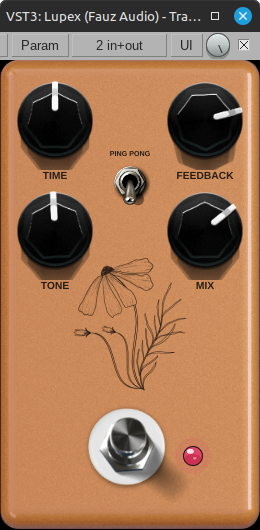
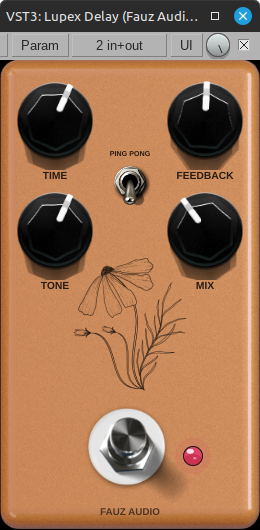
feat: unit tests, BBDFilter fix, DC blocking, smooth bypass, rename to Lupex Delay

diff --git a/tests/DelayLineTest.cpp b/tests/DelayLineTest.cpp
@@ -1,17 +1,57 @@
+#include <cmath>
+#include <catch2/catch_test_macros.hpp>
+#include <catch2/matchers/catch_matchers_floating_point.hpp>
 #include "dsp/DelayLine.h"
 
-namespace lupex::tests
-{
-class DelayLineTest
-{
-public:
-    DelayLineTest();
-    ~DelayLineTest();
+using namespace Catch::Matchers;
 
-    void run();
-};
+TEST_CASE ("DelayLine — prepare inicializa sin NaN", "[DelayLine]")
+{
+    Lupex::DelayLine dl;
+    dl.prepare (44100.0, 1200.0f);
 
-DelayLineTest::DelayLineTest();
-DelayLineTest::~DelayLineTest();
-void DelayLineTest::run();
+    float out = dl.read (10.0f);
+    REQUIRE_FALSE (std::isnan (out));
+    REQUIRE_FALSE (std::isinf (out));
+    REQUIRE_THAT (out, WithinAbs (0.0f, 1e-6f));
+}
+
+TEST_CASE ("DelayLine — write y read retornan señal correcta", "[DelayLine]")
+{
+    Lupex::DelayLine dl;
+    dl.prepare (44100.0, 1200.0f);
+
+    for (int i = 0; i < 441; ++i)
+        dl.write (i == 0 ? 1.0f : 0.0f);
+
+    float out = dl.read (10.0f);
+    REQUIRE_FALSE (std::isnan (out));
+    REQUIRE_FALSE (std::isinf (out));
+}
+
+TEST_CASE ("DelayLine — reset limpia el buffer", "[DelayLine]")
+{
+    Lupex::DelayLine dl;
+    dl.prepare (44100.0, 1200.0f);
+
+    for (int i = 0; i < 100; ++i)
+        dl.write (1.0f);
+
+    dl.reset();
+
+    float out = dl.read (5.0f);
+    REQUIRE_THAT (out, WithinAbs (0.0f, 0.01f));
+}
+
+TEST_CASE ("DelayLine — no genera NaN con delay time extremo", "[DelayLine]")
+{
+    Lupex::DelayLine dl;
+    dl.prepare (44100.0, 1200.0f);
+
+    for (int i = 0; i < 1000; ++i)
+        dl.write (0.5f);
+
+    float out = dl.read (1199.0f);
+    REQUIRE_FALSE (std::isnan (out));
+    REQUIRE_FALSE (std::isinf (out));
 }

diff --git a/tests/BBDFilterTest.cpp b/tests/BBDFilterTest.cpp
@@ -1,17 +1,50 @@
+#include <cmath>
+#include <catch2/catch_test_macros.hpp>
+#include <catch2/matchers/catch_matchers_floating_point.hpp>
 #include "dsp/BBDFilter.h"
 
-namespace lupex::tests
-{
-class BBDFilterTest
-{
-public:
-    BBDFilterTest();
-    ~BBDFilterTest();
+using namespace Catch::Matchers;
 
-    void run();
-};
+TEST_CASE ("BBDFilter — silencio entra, silencio sale", "[BBDFilter]")
+{
+    Lupex::BBDFilter f;
+    f.prepare (44100.0);
+    f.setTone (1.0f);
 
-BBDFilterTest::BBDFilterTest();
-BBDFilterTest::~BBDFilterTest();
-void BBDFilterTest::run();
+    for (int i = 0; i < 100; ++i)
+    {
+        float out = f.process (0.0f);
+        REQUIRE_THAT (out, WithinAbs (0.0f, 1e-6f));
+    }
+}
+
+TEST_CASE ("BBDFilter — no genera NaN con señal de impulso", "[BBDFilter]")
+{
+    Lupex::BBDFilter f;
+    f.prepare (44100.0);
+    f.setTone (0.5f);
+
+    float out = f.process (1.0f);
+    REQUIRE_FALSE (std::isnan (out));
+    REQUIRE_FALSE (std::isinf (out));
+
+    for (int i = 0; i < 100; ++i)
+    {
+        out = f.process (0.0f);
+        REQUIRE_FALSE (std::isnan (out));
+    }
+}
+
+TEST_CASE ("BBDFilter — reset limpia estado interno", "[BBDFilter]")
+{
+    Lupex::BBDFilter f;
+    f.prepare (44100.0);
+    f.setTone (1.0f);
+
+    for (int i = 0; i < 50; ++i)
+        f.process (1.0f);
+
+    f.reset();
+    float out = f.process (0.0f);
+    REQUIRE_THAT (out, WithinAbs (0.0f, 1e-6f));
 }

diff --git a/tests/ParametersTest.cpp b/tests/ParametersTest.cpp
@@ -1,17 +1,29 @@
-#include "parameters/LupexParameters.h"
+#include <cmath>
+#include <catch2/catch_test_macros.hpp>
 
-namespace lupex::tests
+TEST_CASE ("Rangos de parámetros — valores normalizados", "[Parameters]")
 {
-class ParametersTest
-{
-public:
-    ParametersTest();
-    ~ParametersTest();
+    // Time: 1 a 1200ms
+    float timeMin = 1.0f;
+    float timeMax = 1200.0f;
+    REQUIRE (timeMin < timeMax);
+    REQUIRE (timeMin > 0.0f);
 
-    void run();
-};
+    // Feedback: 0 a 100%
+    float feedbackMin = 0.0f;
+    float feedbackMax = 100.0f;
+    REQUIRE (feedbackMin >= 0.0f);
+    REQUIRE (feedbackMax <= 100.0f);
 
-ParametersTest::ParametersTest();
-ParametersTest::~ParametersTest();
-void ParametersTest::run();
+    // Mix: 0 a 100%
+    float mixMin = 0.0f;
+    float mixMax = 100.0f;
+    REQUIRE (mixMin >= 0.0f);
+    REQUIRE (mixMax <= 100.0f);
+
+    // Tone: 0 a 100%
+    float toneMin = 0.0f;
+    float toneMax = 100.0f;
+    REQUIRE (toneMin >= 0.0f);
+    REQUIRE (toneMax <= 100.0f);
 }